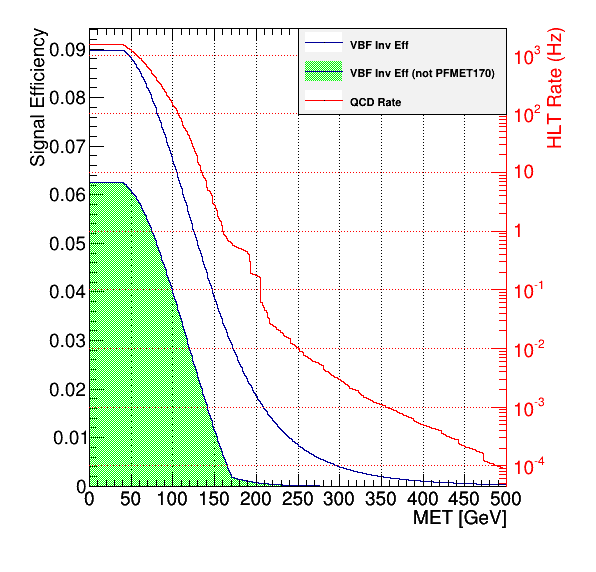
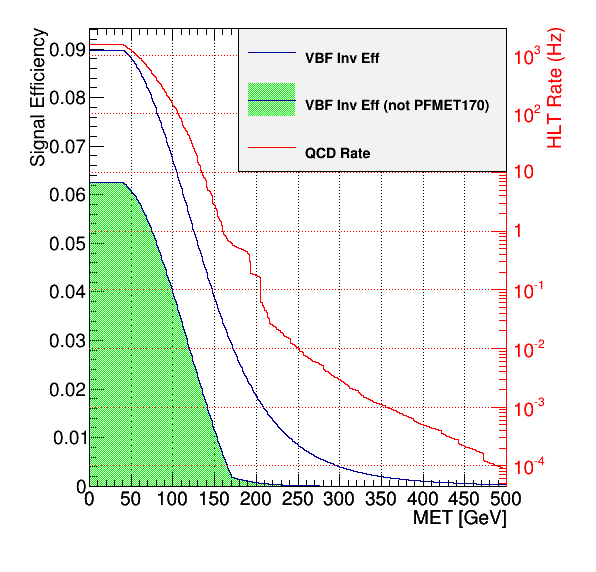
Increase in legend size

Changed region(s): [[0.3926, 0.0594, 0.8456, 0.208], [0.5134, 0.2378, 0.6342, 0.2972]]

diff --git a/PhDThesis/Chapter08/TriggerStudies/HLT/Seed_DijetVBF30_DEta3p5_ETM50/HLT_DijetVBF40-40_DEta4p1_MJJ600.C b/PhDThesis/Chapter08/TriggerStudies/HLT/Seed_DijetVBF30_DEta3p5_ETM50/HLT_DijetVBF40-40_DEta4p1_MJJ600.C
@@ -1,6 +1,6 @@
 {
 //=========Macro generated from canvas: rates_pf_met/
-//=========  (Fri Dec 11 06:37:53 2015) by ROOT version5.34/18
+//=========  (Wed Dec 30 06:40:00 2015) by ROOT version5.34/18
    TCanvas *rates_pf_met = new TCanvas("rates_pf_met", "",0,0,600,600);
    gStyle->SetOptFit(1);
    gStyle->SetOptStat(0);
@@ -1511,7 +1511,7 @@
    rate_HLT PF MET->GetZaxis()->SetTitleFont(42);
    rate_HLT PF MET->Draw("Y+");
    
-   TLegend *leg = new TLegend(0.5,0.8,0.85,0.95,NULL,"brNDC");
+   TLegend *leg = new TLegend(0.4,0.7,0.85,0.95,NULL,"brNDC");
    leg->SetBorderSize(1);
    leg->SetTextFont(62);
    leg->SetLineColor(1);
@@ -1519,18 +1519,17 @@
    leg->SetLineWidth(1);
    leg->SetFillColor(19);
    leg->SetFillStyle(1001);
-   TLegendEntry *entry=leg->AddEntry("Sig_Total_pf_met_eff","VBF Inv Eff","lpf");
-   entry->SetFillStyle(1001);
+   TLegendEntry *entry=leg->AddEntry("Sig_Total_pf_met_eff","VBF Inv Eff","L");
 
    ci = TColor::GetColor("#000099");
    entry->SetLineColor(ci);
    entry->SetLineStyle(1);
    entry->SetLineWidth(1);
    entry->SetMarkerColor(1);
-   entry->SetMarkerStyle(1);
+   entry->SetMarkerStyle(21);
    entry->SetMarkerSize(1);
    entry->SetTextFont(62);
-   entry=leg->AddEntry("Sig_NoPFMET170_pf_met_eff","VBF Inv Eff (not PFMET170)","lpf");
+   entry=leg->AddEntry("Sig_NoPFMET170_pf_met_eff","VBF Inv Eff (not PFMET170)","LF");
 
    ci = TColor::GetColor("#00ff00");
    entry->SetFillColor(ci);
@@ -1541,18 +1540,17 @@
    entry->SetLineStyle(1);
    entry->SetLineWidth(1);
    entry->SetMarkerColor(1);
-   entry->SetMarkerStyle(1);
+   entry->SetMarkerStyle(21);
    entry->SetMarkerSize(1);
    entry->SetTextFont(62);
-   entry=leg->AddEntry("rate_HLT PF MET","QCD Rate","lpf");
-   entry->SetFillStyle(1001);
+   entry=leg->AddEntry("rate_HLT PF MET","QCD Rate","L");
 
    ci = TColor::GetColor("#ff0000");
    entry->SetLineColor(ci);
    entry->SetLineStyle(1);
    entry->SetLineWidth(1);
    entry->SetMarkerColor(1);
-   entry->SetMarkerStyle(1);
+   entry->SetMarkerStyle(21);
    entry->SetMarkerSize(1);
    entry->SetTextFont(62);
    leg->Draw();

diff --git a/PhDThesis/Chapter08/TriggerStudies/HLT/Seed_DijetVBF30_DEta3p5_ETM50/HLT_DijetVBF60-40_DEta4p1_MJJ500.C b/PhDThesis/Chapter08/TriggerStudies/HLT/Seed_DijetVBF30_DEta3p5_ETM50/HLT_DijetVBF60-40_DEta4p1_MJJ500.C
@@ -1,6 +1,6 @@
 {
 //=========Macro generated from canvas: rates_pf_met/
-//=========  (Fri Dec 11 06:52:25 2015) by ROOT version5.34/18
+//=========  (Wed Dec 30 06:55:27 2015) by ROOT version5.34/18
    TCanvas *rates_pf_met = new TCanvas("rates_pf_met", "",0,0,600,600);
    gStyle->SetOptFit(1);
    gStyle->SetOptStat(0);
@@ -1511,7 +1511,7 @@
    rate_HLT PF MET->GetZaxis()->SetTitleFont(42);
    rate_HLT PF MET->Draw("Y+");
    
-   TLegend *leg = new TLegend(0.5,0.8,0.85,0.95,NULL,"brNDC");
+   TLegend *leg = new TLegend(0.4,0.7,0.85,0.95,NULL,"brNDC");
    leg->SetBorderSize(1);
    leg->SetTextFont(62);
    leg->SetLineColor(1);
@@ -1519,18 +1519,17 @@
    leg->SetLineWidth(1);
    leg->SetFillColor(19);
    leg->SetFillStyle(1001);
-   TLegendEntry *entry=leg->AddEntry("Sig_Total_pf_met_eff","VBF Inv Eff","lpf");
-   entry->SetFillStyle(1001);
+   TLegendEntry *entry=leg->AddEntry("Sig_Total_pf_met_eff","VBF Inv Eff","L");
 
    ci = TColor::GetColor("#000099");
    entry->SetLineColor(ci);
    entry->SetLineStyle(1);
    entry->SetLineWidth(1);
    entry->SetMarkerColor(1);
-   entry->SetMarkerStyle(1);
+   entry->SetMarkerStyle(21);
    entry->SetMarkerSize(1);
    entry->SetTextFont(62);
-   entry=leg->AddEntry("Sig_NoPFMET170_pf_met_eff","VBF Inv Eff (not PFMET170)","lpf");
+   entry=leg->AddEntry("Sig_NoPFMET170_pf_met_eff","VBF Inv Eff (not PFMET170)","LF");
 
    ci = TColor::GetColor("#00ff00");
    entry->SetFillColor(ci);
@@ -1541,18 +1540,17 @@
    entry->SetLineStyle(1);
    entry->SetLineWidth(1);
    entry->SetMarkerColor(1);
-   entry->SetMarkerStyle(1);
+   entry->SetMarkerStyle(21);
    entry->SetMarkerSize(1);
    entry->SetTextFont(62);
-   entry=leg->AddEntry("rate_HLT PF MET","QCD Rate","lpf");
-   entry->SetFillStyle(1001);
+   entry=leg->AddEntry("rate_HLT PF MET","QCD Rate","L");
 
    ci = TColor::GetColor("#ff0000");
    entry->SetLineColor(ci);
    entry->SetLineStyle(1);
    entry->SetLineWidth(1);
    entry->SetMarkerColor(1);
-   entry->SetMarkerStyle(1);
+   entry->SetMarkerStyle(21);
    entry->SetMarkerSize(1);
    entry->SetTextFont(62);
    leg->Draw();
